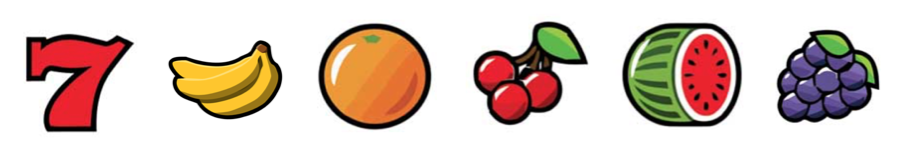
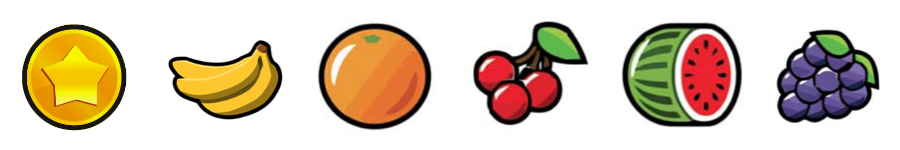
Slot wheel mechanics

Changed region(s): [[0.0, 0.16, 0.1556, 0.88]]

diff --git a/AtmInternational/AtmInternational.Hardware/Components/SlotMachineWheel.xaml b/AtmInternational/AtmInternational.Hardware/Components/SlotMachineWheel.xaml
@@ -7,13 +7,14 @@
              mc:Ignorable="d" 
              Loaded="UserControl_Loaded"
              d:DesignHeight="450" d:DesignWidth="800">
-    <Grid>
-        <TextBlock Text="{Binding Name}"></TextBlock>
+    <StackPanel HorizontalAlignment="Center">
+        <!--<TextBlock  Text="{Binding Test}" TextAlignment="Center" HorizontalAlignment="Center"></TextBlock>-->
+
         <Border BorderBrush="LightGray" Background="White" CornerRadius="4" BorderThickness="2" Width="200" Height="300">
        
-            <Border.InputBindings>
+            <!--<Border.InputBindings>
                 <MouseBinding MouseAction="LeftClick" Command="{Binding SpinCommand}"/>
-            </Border.InputBindings>
+            </Border.InputBindings>-->
             <Viewbox Height="150">
 
                     <Image x:Name="image" Stretch="None"/>
@@ -21,5 +22,5 @@
        
         </Border>
 
-    </Grid>
+    </StackPanel>
 </UserControl>

diff --git a/AtmInternational/AtmInternational.Hardware/MainWindow.xaml b/AtmInternational/AtmInternational.Hardware/MainWindow.xaml
@@ -88,11 +88,15 @@
             Grid.Row="2"
             Background="White">
 
+            <StackPanel Orientation="Horizontal">
 
-            <components:SlotMachineWheel SpriteFrameCount="6" 
-                                         SpriteHeight="150" 
-                                         SpriteWidth="150" 
-                                         ImageUri="pack://application:,,,/AtmInternational.Hardware;component/Resources/SlotSymbols.png" />
+                <components:SlotMachineWheel x:Name="Wheel1" />
+                <components:SlotMachineWheel x:Name="Wheel2"/>
+                <components:SlotMachineWheel x:Name="Wheel3"/>
+
+            </StackPanel>
+
+            <Button Click="Spin">Spin</Button>
 
             <components:Keypad></components:Keypad>
 

diff --git a/AtmInternational/AtmInternational.Hardware/Components/SlotMachineWheel.xaml.cs b/AtmInternational/AtmInternational.Hardware/Components/SlotMachineWheel.xaml.cs
@@ -29,28 +29,35 @@ namespace AtmInternational.Hardware.Components
 
         private string pName = "test";
 
-        public string Name
+        public string Test
         {
             get => pName;
-            set => OnPropertyChanged(pName);
+            set
+            {
+                pName = value;
+                OnPropertyChanged();
+            }
         }
-        
+
         private DispatcherTimer updateImageTimer;
-        public int currentFrameIndex;
+        private int currentFrameIndex;
         private readonly CroppedBitmap croppedBitmap;
         private List<CroppedBitmap> frames = new List<CroppedBitmap>();
         private Random random = new Random();
 
-        public int SpriteWidth { get; set; } = 0;
-        public int SpriteHeight { get; set; } = 0;
-        public int SpriteFrameCount { get; set; } = 0;
-        public int Interval { get; set; } = 700;
-        public Uri ImageUri { get; set; }
+        private int SpriteWidth { get; set; } = 150;
+        private int SpriteHeight { get; set; } = 150;
+        private int SpriteFrameCount { get; set; } = 6;
+        private int Interval { get; set; } = 150;
+        private Uri ImageUri { get; set; } = new Uri("pack://application:,,,/AtmInternational.Hardware;component/Resources/SlotSymbols.png");
+        
+        private SlotWheelSymbol SlotWheelSymbol { get; set; }
 
 
-        public ICommand SpinCommand { get; }
+        private int totalSpinCount = 5;
+        private int currentSpinCount = 0;
 
-
+        
         //private ICommand _clickCommand;
         //public ICommand ClickCommand
         //{
@@ -64,7 +71,6 @@ namespace AtmInternational.Hardware.Components
         {
             InitializeComponent();
             this.DataContext = this;
-            SpinCommand = new CommandHandler(Spin, () => true);
         }
 
         private void CreateFrames()
@@ -97,12 +103,14 @@ namespace AtmInternational.Hardware.Components
         public void Play()
         {
             currentFrameIndex = 0;
+            currentSpinCount = 0;
             updateImageTimer.Start();
         }
 
         public void Stop()
         {
             updateImageTimer.Stop();
+            ShowFrame((int)SlotWheelSymbol);
         }
 
         private void UserControl_Loaded(object sender, RoutedEventArgs e)
@@ -119,26 +127,36 @@ namespace AtmInternational.Hardware.Components
 
         private void ShowNextRandomFrame()
         {
-            Name = currentFrameIndex.ToString();
-            var index = random.Next(0, SpriteFrameCount);
-            if (index == currentFrameIndex)
+            if (currentSpinCount >= totalSpinCount)
             {
-                ShowNextRandomFrame();
+                Stop();
+                return;
             }
             
-            image.Source = frames[index];
-            currentFrameIndex = index;
+            var randomIndex = random.Next(0, SpriteFrameCount);
+            while (randomIndex == currentFrameIndex)
+            {
+                randomIndex = random.Next(0, SpriteFrameCount);
+            }
+            
+            Test = randomIndex.ToString();
+
+            ShowFrame(randomIndex);
         }
 
         private void ShowFrame(int frameIndex)
         {
             image.Source = frames[frameIndex];
-
+            currentFrameIndex = frameIndex;
+            currentSpinCount++;
         }
 
-        private void Spin()
+        public void Spin(SlotWheelSymbol slotWheelSymbol)
         {
-            updateImageTimer.Start();
+            SlotWheelSymbol = slotWheelSymbol;
+            Play();
+           //updateImageTimer.Start();
+            //Test = "test" + DateTime.Now.Millisecond.ToString();
         }
 
         public event PropertyChangedEventHandler? PropertyChanged;

diff --git a/AtmInternational/AtmInternational.Hardware/Helpers/Easing.cs b/AtmInternational/AtmInternational.Hardware/Helpers/Easing.cs
@@ -1,0 +1,167 @@
+using System;
+using System.Collections.Generic;
+using System.Linq;
+using System.Text;
+using System.Threading.Tasks;
+
+namespace AtmInternational.Hardware.Helpers
+{
+
+	/// <summary>
+	/// https://gist.github.com/Fonserbc/3d31a25e87fdaa541ddf
+	/// </summary>
+	public class Easing
+    {
+		public delegate float EasingFunction(float k);
+
+			public static float Linear(float k)
+			{
+				return k;
+			}
+
+			public class Quadratic
+			{
+				public static float In(float k)
+				{
+					return k * k;
+				}
+
+				public static float Out(float k)
+				{
+					return k * (2f - k);
+				}
+
+				public static float InOut(float k)
+				{
+					if ((k *= 2f) < 1f) return 0.5f * k * k;
+					return -0.5f * ((k -= 1f) * (k - 2f) - 1f);
+				}
+
+				/* 
+				 * Quadratic.Bezier(k,0) behaves like Quadratic.In(k)
+				 * Quadratic.Bezier(k,1) behaves like Quadratic.Out(k)
+				 *
+				 * If you want to learn more check Alan Wolfe's post about it http://www.demofox.org/bezquad1d.html
+				 */
+				public static float Bezier(float k, float c)
+				{
+					return c * 2 * k * (1 - k) + k * k;
+				}
+			};
+
+			public class Cubic
+			{
+				public static float In(float k)
+				{
+					return k * k * k;
+				}
+
+				public static float Out(float k)
+				{
+					return 1f + ((k -= 1f) * k * k);
+				}
+
+				public static float InOut(float k)
+				{
+					if ((k *= 2f) < 1f) return 0.5f * k * k * k;
+					return 0.5f * ((k -= 2f) * k * k + 2f);
+				}
+			};
+
+			public class Quartic
+			{
+				public static float In(float k)
+				{
+					return k * k * k * k;
+				}
+
+				public static float Out(float k)
+				{
+					return 1f - ((k -= 1f) * k * k * k);
+				}
+
+				public static float InOut(float k)
+				{
+					if ((k *= 2f) < 1f) return 0.5f * k * k * k * k;
+					return -0.5f * ((k -= 2f) * k * k * k - 2f);
+				}
+			};
+
+			public class Quintic
+			{
+				public static float In(float k)
+				{
+					return k * k * k * k * k;
+				}
+
+				public static float Out(float k)
+				{
+					return 1f + ((k -= 1f) * k * k * k * k);
+				}
+
+				public static float InOut(float k)
+				{
+					if ((k *= 2f) < 1f) return 0.5f * k * k * k * k * k;
+					return 0.5f * ((k -= 2f) * k * k * k * k + 2f);
+				}
+			};
+
+		
+
+			public class Back
+			{
+				static float s = 1.70158f;
+				static float s2 = 2.5949095f;
+
+				public static float In(float k)
+				{
+					return k * k * ((s + 1f) * k - s);
+				}
+
+				public static float Out(float k)
+				{
+					return (k -= 1f) * k * ((s + 1f) * k + s) + 1f;
+				}
+
+				public static float InOut(float k)
+				{
+					if ((k *= 2f) < 1f) return 0.5f * (k * k * ((s2 + 1f) * k - s2));
+					return 0.5f * ((k -= 2f) * k * ((s2 + 1f) * k + s2) + 2f);
+				}
+			};
+
+			public class Bounce
+			{
+				public static float In(float k)
+				{
+					return 1f - Out(1f - k);
+				}
+
+				public static float Out(float k)
+				{
+					if (k < (1f / 2.75f))
+					{
+						return 7.5625f * k * k;
+					}
+					else if (k < (2f / 2.75f))
+					{
+						return 7.5625f * (k -= (1.5f / 2.75f)) * k + 0.75f;
+					}
+					else if (k < (2.5f / 2.75f))
+					{
+						return 7.5625f * (k -= (2.25f / 2.75f)) * k + 0.9375f;
+					}
+					else
+					{
+						return 7.5625f * (k -= (2.625f / 2.75f)) * k + 0.984375f;
+					}
+				}
+
+				public static float InOut(float k)
+				{
+					if (k < 0.5f) return In(k * 2f) * 0.5f;
+					return Out(k * 2f - 1f) * 0.5f + 0.5f;
+				}
+			};
+		}
+}

diff --git a/AtmInternational/AtmInternational.Hardware/MainWindow.xaml.cs b/AtmInternational/AtmInternational.Hardware/MainWindow.xaml.cs
@@ -1,4 +1,6 @@
-using System.Windows;
+using System;
+using System.Windows;
+using AtmInternational.Hardware.Helpers;
 using AtmInternational.Hardware.ViewModels;
 
 namespace AtmInternational.Hardware
@@ -8,10 +10,33 @@ namespace AtmInternational.Hardware
     /// </summary>
     public partial class MainWindow : Window
     {
+        private RandomSlotMachineSymbolGenerator randomSlotMachineSymbolGenerator;
+
         public MainWindow()
         {
             InitializeComponent();
-            
+            randomSlotMachineSymbolGenerator = new RandomSlotMachineSymbolGenerator();
+        }
+
+        private void Spin(object sender, RoutedEventArgs e)
+        {
+            Wheel1.Spin(randomSlotMachineSymbolGenerator.WheelOne);
+            Wheel2.Spin(randomSlotMachineSymbolGenerator.WheelTwo);
+            Wheel3.Spin(randomSlotMachineSymbolGenerator.WheelThree);
+        }
+    }
+
+    public class RandomSlotMachineSymbolGenerator
+    {
+        private readonly Random random = new Random();
+
+        public SlotWheelSymbol WheelOne => GetRandomSlotWheelSymbol();
+        public SlotWheelSymbol WheelTwo => GetRandomSlotWheelSymbol();
+        public SlotWheelSymbol WheelThree => GetRandomSlotWheelSymbol();
+
+        private SlotWheelSymbol GetRandomSlotWheelSymbol()
+        {
+            return (SlotWheelSymbol) random.Next(0, 6);
         }
     }
 }

diff --git a/AtmInternational/AtmInternational.Hardware/Helpers/SlotWheelSymbol.cs b/AtmInternational/AtmInternational.Hardware/Helpers/SlotWheelSymbol.cs
@@ -1,0 +1,12 @@
+namespace AtmInternational.Hardware.Helpers
+{
+    public enum SlotWheelSymbol
+    {
+        Coin,
+        Banana,
+        Orange,
+        Cherry,
+        Watermelon,
+        Grapes
+    }
+}
